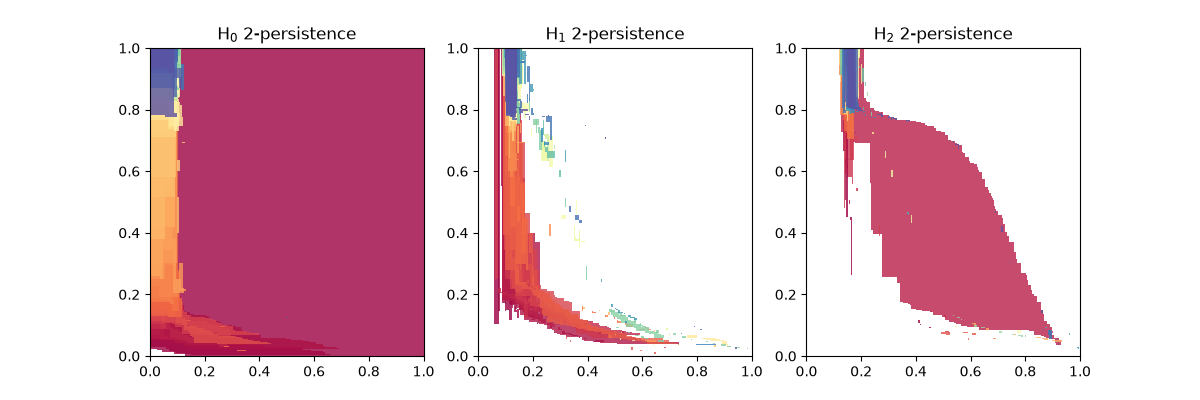
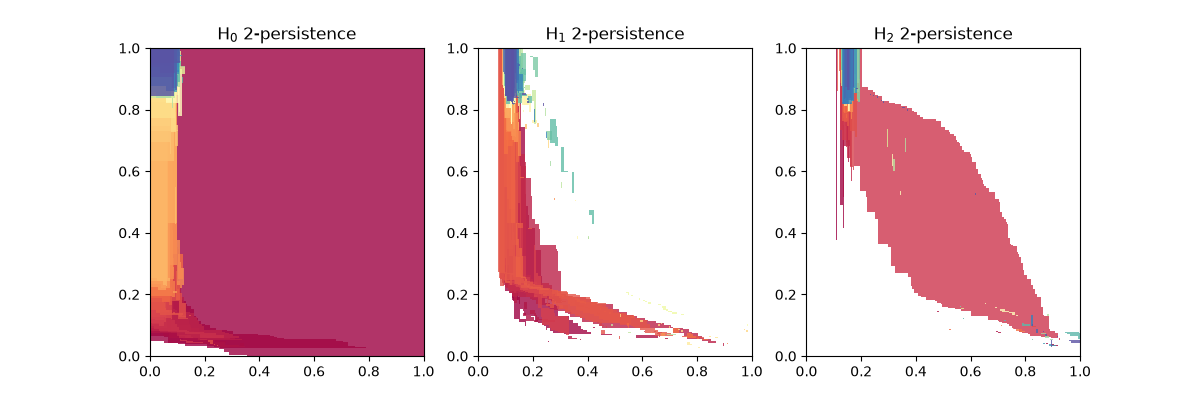
verbose option

diff --git a/slflood/slflood.py b/slflood/slflood.py
@@ -60,6 +60,7 @@ def slflood_bifiltration(
     use_triton: bool = False,
     fps_h: Union[None, int] = None,
     start_idx: Union[int, None] = 0,
+    verbose = False,
 ):
     """
     Constructs the sublevel Flood bifiltration from a set of points with scalar values and a set of landmarks.
@@ -123,7 +124,8 @@ def slflood_bifiltration(
     if not torch.is_floating_point(landmarks):
         landmarks = points[ranks[landmarks]]
 
-    elapsed("SORT")
+    if verbose:
+        elapsed("SORT")
 
     stree = gudhi.delaunay_complex.DelaunayComplex(landmarks.cpu()).create_simplex_tree(filtration=None)
     cells_list = []
@@ -147,7 +149,8 @@ def slflood_bifiltration(
     cells = torch.tensor(cells_list, device=device)
     simplices_by_dim = [torch.tensor(l, device=device) for l in simplices_list]
 
-    elapsed("DELAUNAY")
+    if verbose:
+        elapsed("DELAUNAY")
 
     # precompute simplex centers
     simplex_vertices = landmarks[cells]
@@ -156,21 +159,23 @@ def slflood_bifiltration(
     simplex_radii = near_radius * torch.tensor(Lr, device=device, dtype=dtype)
     simplex_centers = torch.tensor(Lc, device=device, dtype=dtype)
 
-    elapsed("BALLS")
+    if verbose:
+        elapsed("BALLS")
 
     mask = near_validity(points, simplex_centers, simplex_radii)
-    # print(f"Mask sparsity: {mask.sum()} / {mask.numel()} ({mask.sum() / mask.numel() * 100:.2f}%)")
     scc0, mask = vertex_bigrades(points, landmarks, function, cells, mask)
     if exact:
         mask = torch.ones_like(mask)
-    # print(f"Mask sparsity: {mask.sum()} / {mask.numel()} ({mask.sum() / mask.numel() * 100:.2f}%)")
-    elapsed("MASK")
+    if verbose:
+        elapsed("MASK")
 
     ret_stree.insert_batch(np.arange(len(scc0))[None,:], pad_bigrades(scc0))
-    elapsed("ASSIGN_0")
+    if verbose:
+        elapsed("ASSIGN_0")
 
     submasks = [mask_from_adjacency(cocells, mask) for cocells in simplices_cocells]
-    elapsed("SUBMASKS")
+    if verbose:
+        elapsed("SUBMASKS")
 
     simplices_by_dim.append(cells)
     submasks.append(mask)
@@ -236,6 +241,7 @@ def slflood_bifiltration(
 
         ret_stree.insert_batch(simplices.cpu().numpy().T, pad_bigrades(bigrades))
 
-    elapsed("LOOP")
+    if verbose:
+        elapsed("LOOP")
 
     return ret_stree
